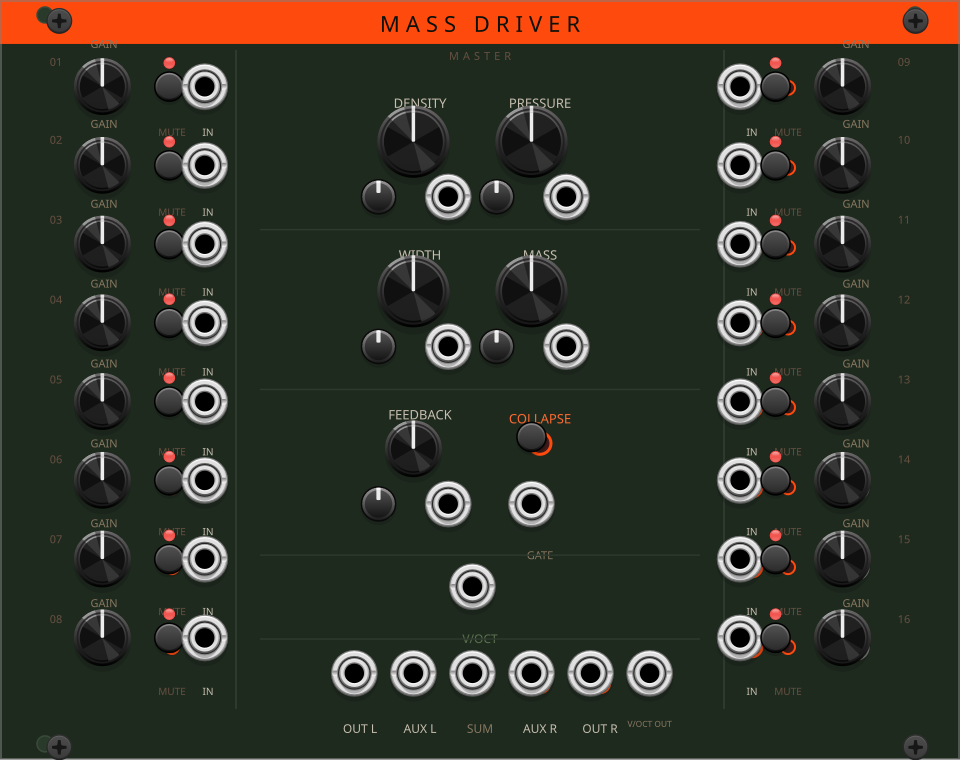
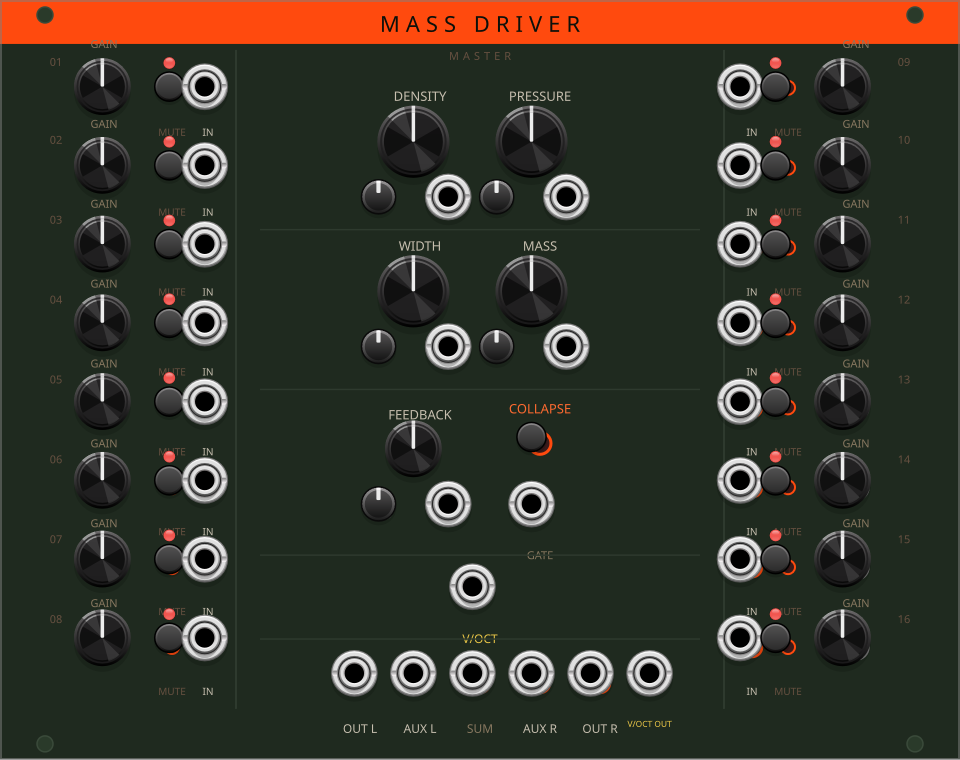
docs(wiki): HP, new controls, and Sitar Grid's silence
DroneClone 26 HP, Collapse Saturator 16 HP - check_wiki caught both against the
SVGs. Collapse Saturator gains LEVEL, MIX and SC AMT and now prints COLLAPSE SAT
so it is distinguishable from Collapse EG. Swarm Core self-clocks from DENSITY,
has SPECIMEN CV, and its mode latches. Sitar Grid carries a note that it made no
sound in any earlier release.

Panel images under docs/panels/rack refreshed - they were stale and two modules
had none.

diff --git a/docs/wiki/Collapse-Saturator.md b/docs/wiki/Collapse-Saturator.md
@@ -1,10 +1,14 @@
-# Collapse Saturator — 12 HP
+# Collapse Saturator — 16 HP
 
 ![Collapse Saturator in VCV Rack](https://raw.githubusercontent.com/dboles99/amplified-futures-vcv/master/docs/panels/rack/CollapseSat.png)
 
 Stereo drive and saturation with a collapse gate. DRIVE sets pre-gain from ×1 to ×10, BUZZ picks the character of the clipping, and COLLAPSE is the performance control — a gate that ramps drive to maximum in a millisecond and then eases back to where you left it over RECOVERY.
 
 COLLAPSE adds distortion rather than removing it. It is an event, not a limiter.
+
+**LEVEL** trims the output, **MIX** blends the saturated signal against the dry one, and **SC AMT** sets how hard the sidechain pushes DRIVE. All three default to the behaviour the module had before they existed — unity, fully wet, and the sidechain depth that used to be fixed — so a patch saved earlier sounds the same.
+
+The panel reads **COLLAPSE SAT**. It and Collapse EG both used to print `COLLAPSE`, which made them indistinguishable in the browser.
 
 ---
 

diff --git a/docs/wiki/Module-Reference.md b/docs/wiki/Module-Reference.md
@@ -15,7 +15,7 @@ Two-voice detuned oscillator core. PITCH, DETUNE (0–100¢), TIMBRE (sine to ha
 
 ---
 
-### DroneClone — 22HP
+### DroneClone — 26HP
 ![DroneClone](https://raw.githubusercontent.com/dboles99/amplified-futures-vcv/master/docs/panels/rack/DroneClone.png)
 
 8-voice amplified string wall. MASS, TENSION, SHIMMER, JAWARI (sitar buzz), WEIGHT, DRIFT. CHOKE gate + RTN feedback input. Up to 128 simultaneous oscillators.
@@ -141,7 +141,7 @@ Section-based performance conductor. DENSITY sweeps 4 channels in progressively.
 
 ## Effects
 
-### Collapse Saturator — 12HP
+### Collapse Saturator — 16HP
 ![CollapseSat](https://raw.githubusercontent.com/dboles99/amplified-futures-vcv/master/docs/panels/rack/CollapseSat.png)
 
 Stereo drive/saturation. Three harmonic modes: ODD (tanh), EVEN (tape-like), FULL (hard clip). COLLAPSE gate instantly maxes drive with shaped RECOVERY. Sidechain input.

diff --git a/docs/wiki/Sitar-Grid.md b/docs/wiki/Sitar-Grid.md
@@ -6,6 +6,8 @@ Modal string-resonance sequencer, and the largest module in the plugin. Three in
 
 The three sequencers run on their own lengths and, for the resonance brain, its own clock division. Set them to different lengths and the module stops repeating in any obvious period.
 
+> **Fixed in 2.3.0.** Sitar Grid produced no sound at all in every earlier release. The Karplus-Strong excitation was written to a part of the delay line the read head never reached, so every audio output sat at 0 V. Patch a clock into **CLOCK** — the sequencers, and therefore the string, only advance on a clock edge.
+
 ---
 
 ## Sound in 60 seconds

diff --git a/docs/wiki/Swarm-Core.md b/docs/wiki/Swarm-Core.md
@@ -6,6 +6,8 @@ Bio-acoustic sample engine playing recorded insects. The bank is InsectSet32 —
 
 It is the only module in the plugin that reads files from disk, and that has two consequences worth knowing before you patch it.
 
+With nothing patched into **TRIG**, DENSITY drives an internal event clock from 0.5 to 30 Hz, so the module sounds on its own; patch TRIG and it takes over. **SPECIMEN** now has an attenuverter and a CV input, so which insect plays can be sequenced. **MODE** latches rather than needing to be held.
+
 ---
 
 ## Sound in 60 seconds

diff --git a/docs/wiki/DroneClone.md b/docs/wiki/DroneClone.md
@@ -1,4 +1,4 @@
-# DroneClone — 22 HP
+# DroneClone — 26 HP
 
 ![DroneClone in VCV Rack](https://raw.githubusercontent.com/dboles99/amplified-futures-vcv/master/docs/panels/rack/DroneClone.png)
 
